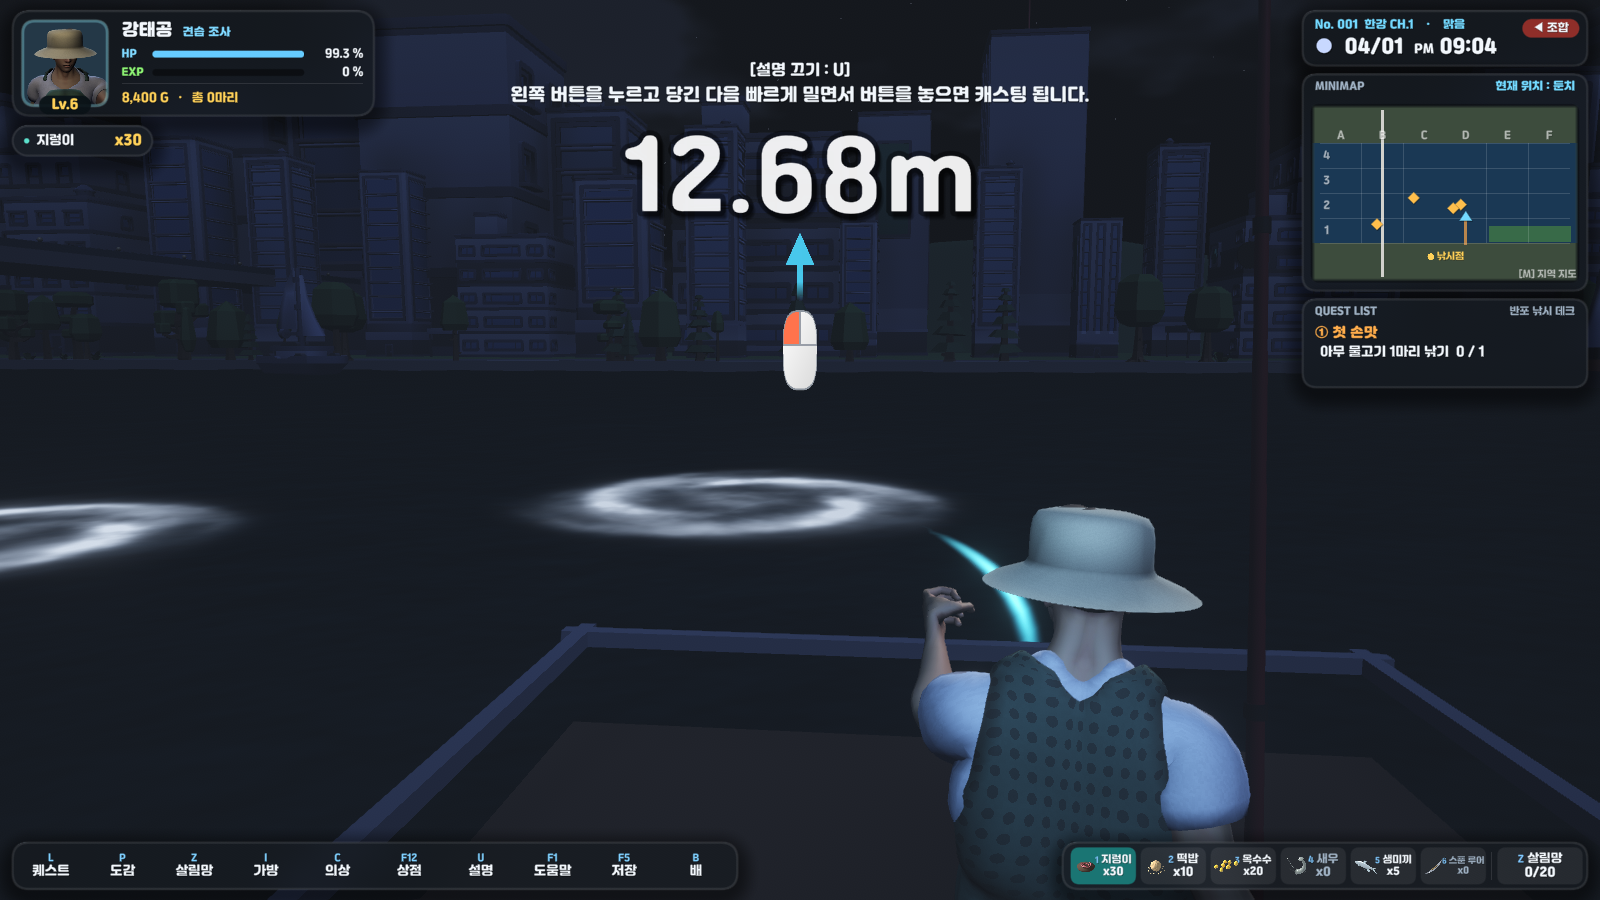
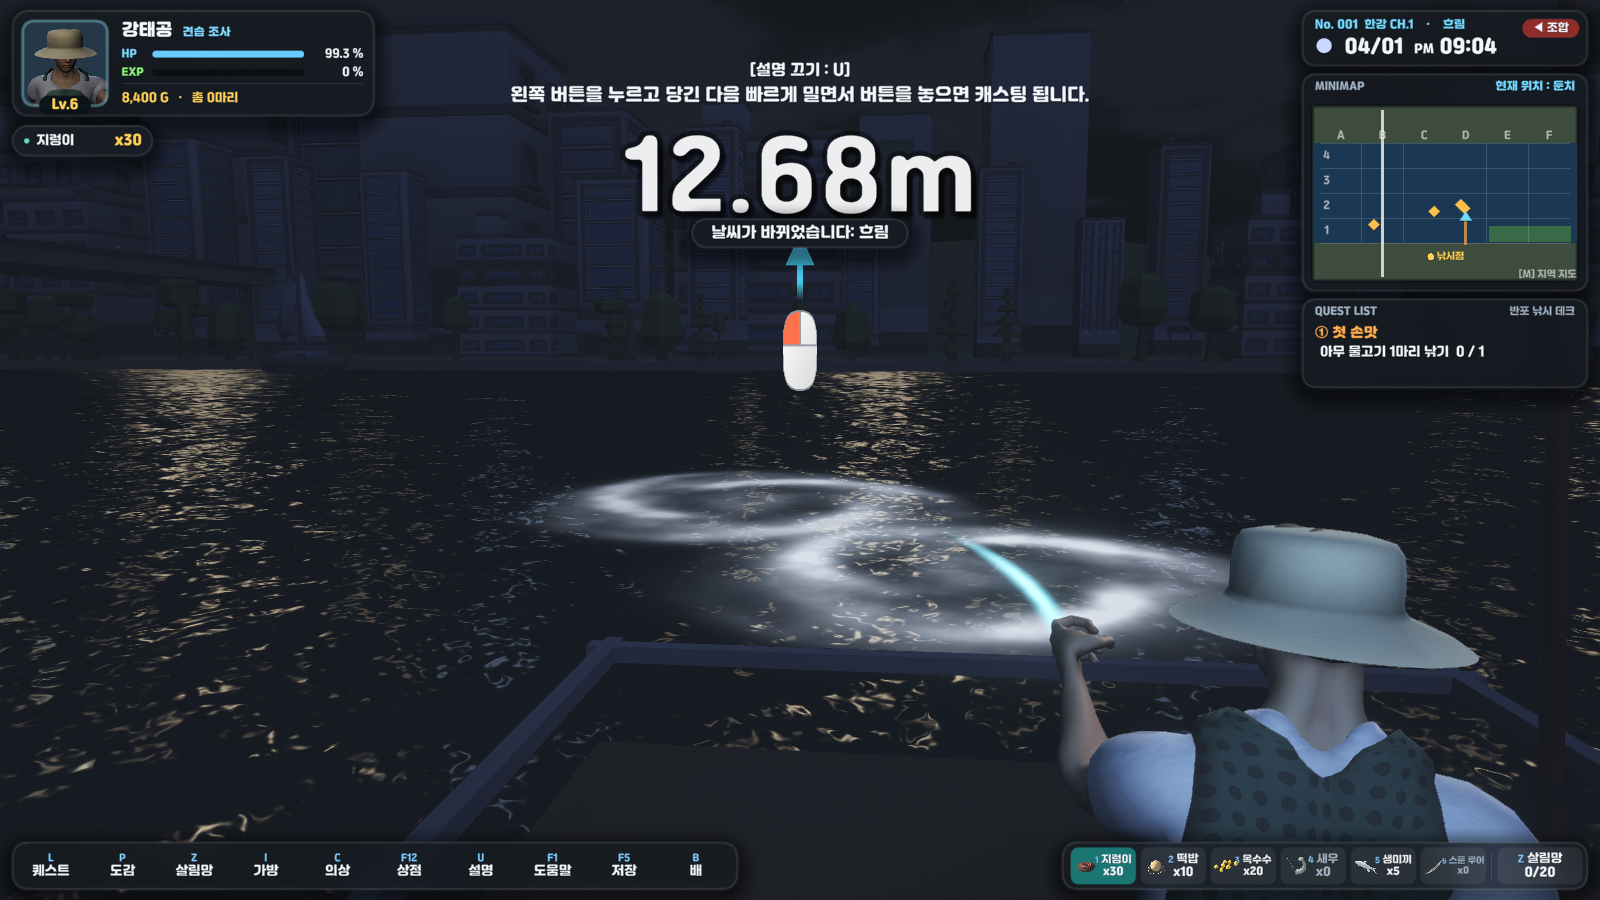
밤 물 위 불빛 기둥: 가로등·다리 조명·건너편 도시 불빛 반사
- WaterGlints: 맵을 지을 때 광원 위치를 모아 셰이더 전역 배열로(최대 48)
- Water.shader: 잔물결 반사 방향과 광원 방향 차이로 가로 좁고 세로 긴 빛, 밤에만
- autoshot: 대회 장면 뒤 시계를 되돌려 이후 장면 시각 유지

diff --git a/Assets/Scripts/World/WaterGlints.cs b/Assets/Scripts/World/WaterGlints.cs
@@ -1,0 +1,53 @@
+using System.Collections.Generic;
+using UnityEngine;
+
+namespace Fishing.World
+{
+    /// <summary>
+    /// 밤 물 위에 길게 비치는 불빛 (가로등·다리 조명·건너편 도시 불빛). 로드맵 "밤 강물 다리·도시 불빛 반사".
+    /// 맵을 지을 때 광원 위치를 <see cref="Add"/>로 모아 두면, Fishing/Water 셰이더가 반사 방향과 광원 방향의 차이로
+    /// 가로는 좁고 세로(보는 쪽)로 긴 빛 기둥을 그린다. 잔물결 노멀 때문에 기둥이 자글자글 흔들린다.
+    /// 밤 정도(<see cref="SetNight"/>)는 DayNightCycle이 가로등을 켜고 끄는 값과 같게 준다.
+    /// </summary>
+    public static class WaterGlints
+    {
+        public const int Max = 48;   // Water.shader의 배열 크기와 같아야 한다
+
+        static readonly List<Vector4> Pos = new List<Vector4>();
+        static readonly List<Vector4> Col = new List<Vector4>();
+        static readonly Vector4[] PosBuf = new Vector4[Max];
+        static readonly Vector4[] ColBuf = new Vector4[Max];
+
+        /// <summary>맵을 새로 지을 때 비운다 (MapLoader).</summary>
+        public static void Clear()
+        {
+            Pos.Clear();
+            Col.Clear();
+            Upload();
+        }
+
+        /// <summary>광원 하나. strength = 밝기 배율 (가로등 1, 다리 조명 0.7, 먼 도시 불빛 0.5 …).</summary>
+        public static void Add(Vector3 pos, Color color, float strength = 1f)
+        {
+            if (Pos.Count >= Max) return;
+            Pos.Add(new Vector4(pos.x, pos.y, pos.z, 1f));
+            Col.Add(new Vector4(color.r, color.g, color.b, strength));
+        }
+
+        /// <summary>모은 광원을 셰이더 전역 배열로 보낸다 (맵 짓기가 끝나면 한 번).</summary>
+        public static void Upload()
+        {
+            for (int i = 0; i < Max; i++)
+            {
+                PosBuf[i] = i < Pos.Count ? Pos[i] : Vector4.zero;
+                ColBuf[i] = i < Col.Count ? Col[i] : Vector4.zero;
+            }
+            Shader.SetGlobalVectorArray("_GlintPos", PosBuf);
+            Shader.SetGlobalVectorArray("_GlintCol", ColBuf);
+            Shader.SetGlobalFloat("_GlintCount", Pos.Count);
+        }
+
+        /// <summary>0(낮) ~ 1(밤, 불이 켜짐).</summary>
+        public static void SetNight(float night) => Shader.SetGlobalFloat("_GlintNight", Mathf.Clamp01(night));
+    }
+}

diff --git a/Assets/Scripts/World/WorldBuilder.cs b/Assets/Scripts/World/WorldBuilder.cs
@@ -362,6 +362,16 @@ namespace Fishing.World
             {
                 Mats.Prim(PrimitiveType.Sphere, "BridgeLight", props, new Vector3(HanRiverMap.BridgeX - 8.8f, 13.9f, z), Vector3.one * 0.5f, bridgeLight, false);
                 Mats.Prim(PrimitiveType.Sphere, "BridgeLight", props, new Vector3(HanRiverMap.BridgeX + 8.8f, 13.9f, z), Vector3.one * 0.5f, bridgeLight, false);
+                // 강 위에 있는 다리 조명만 물에 비친다 (데크 쪽 = 플레이어가 보는 쪽 난간)
+                if (z > HanRiverMap.RiverMinZ && z < HanRiverMap.RiverMaxZ)
+                    WaterGlints.Add(new Vector3(HanRiverMap.BridgeX + 8.8f, 13.9f, z), new Color(1f, 0.85f, 0.55f), 0.7f);
+            }
+            // 건너편(북쪽) 도시 불빛: 아파트 창문 불빛이 강물에 길게 비친다
+            for (int i = 0; i < 9; i++)
+            {
+                float x = -130f + i * 32f + (i % 3) * 5f;
+                var c = i % 3 == 0 ? new Color(0.75f, 0.85f, 1f) : new Color(1f, 0.78f, 0.5f);
+                WaterGlints.Add(new Vector3(x, 18f + (i % 4) * 6f, HanRiverMap.LandFarZ - 10f), c, 0.55f);
             }
         }
 

diff --git a/Assets/Scripts/Dev/DevAutomation.cs b/Assets/Scripts/Dev/DevAutomation.cs
@@ -233,7 +233,8 @@ namespace Fishing.Dev
             yield return Shot("16_help");
             Game.UI.Help.Close();
 
-            // 낚시 대회: 참가해서 몇 마리 낚은 상태 (HUD 순위표 + 퀘스트 창 대회 탭)
+            // 낚시 대회: 참가해서 몇 마리 낚은 상태 (HUD 순위표 + 퀘스트 창 대회 탭). 끝나면 시각을 되돌린다
+            float clockBefore = Game.Clock.Minutes;
             Game.Clock.Set(1, 12 * 60);
             Game.Tournament.DebugJoin(4, 63.5f, "잉어", 151.2f);
             yield return new WaitForSeconds(0.6f);
@@ -245,6 +246,7 @@ namespace Fishing.Dev
             Game.UI.Quest.Close();
             Game.UI.Quest.ShowTab(0);
             p.Data.tournament.day = -1;
+            Game.Clock.Set(1, clockBefore);
 
             // NPC 대화 (낚시점 김사장), 낚싯대 강화 창
             Game.Player.Teleport(Fishing.World.FieldMap.ShopPos + new Vector3(1.2f, 0.1f, 4.5f), 180f);

diff --git a/Assets/Scripts/Core/MapLoader.cs b/Assets/Scripts/Core/MapLoader.cs
@@ -16,7 +16,11 @@ namespace Fishing.Core
             FieldMap.Set(map);
             var lamps = new List<Light>();
             var bulbs = new List<Renderer>();
+            WaterGlints.Clear();
             Game.World = map.BuildWorld(lamps, bulbs);
+            // 가로등은 모두 물에 비친다 (다리·도시 불빛은 맵이 따로 넣는다)
+            foreach (var l in lamps) if (l != null) WaterGlints.Add(l.transform.position, l.color, 1f);
+            WaterGlints.Upload();
             Game.DayNight?.SetLampSet(lamps, bulbs);
             Game.Schools?.Reset(map.CreateSchools());
             if (Game.Profile != null) Game.Profile.Data.mapId = map.Id;

diff --git a/Assets/Scripts/Core/DayNightCycle.cs b/Assets/Scripts/Core/DayNightCycle.cs
@@ -142,6 +142,7 @@ namespace Fishing.Core
 
             Fishing.World.KenneyProps.SetNightGlow(1f - day);
             bool wantLamps = day < 0.45f || _weatherDim < 0.45f;
+            Fishing.World.WaterGlints.SetNight(Mathf.Clamp01((0.55f - day) / 0.35f));
             if (wantLamps != _lampsOn) SetLamps(wantLamps);
         }
 

diff --git a/docs/06-roadmap.md b/docs/06-roadmap.md
@@ -37,8 +37,8 @@
 - [x] 낚싯대 강화 +1~+10 (확률, +5 이상 실패 시 하락)
 - [x] Kenney CC0 배경: 빌딩 숲, 가로등, 나무, 요트·어선, 모터보트
 - [ ] 에셋 스토어 무료 에셋(낚시 애니메이션, 물고기, 국가유산청 전통 배): 계정에서 "내 에셋에 추가" 후 임포트, 공개 저장소에는 올리지 않음
-- [ ] 밤 강물에 다리·도시 불빛이 길게 비치는 반사
-- [ ] RESULT 화면에도 3D 물고기
+- [x] 밤 강물에 다리·도시 불빛이 길게 비치는 반사 (`WaterGlints` + Water.shader)
+- [x] RESULT 화면에도 3D 물고기 (어종별 모델이 펄떡인다)
 
 ## v0.2 국내 맵 확장
 - [ ] 맵 추상화 (`IMapDefinition`, [03-architecture.md](03-architecture.md#새-맵-추가-예-서천-앞바다) 참고)
